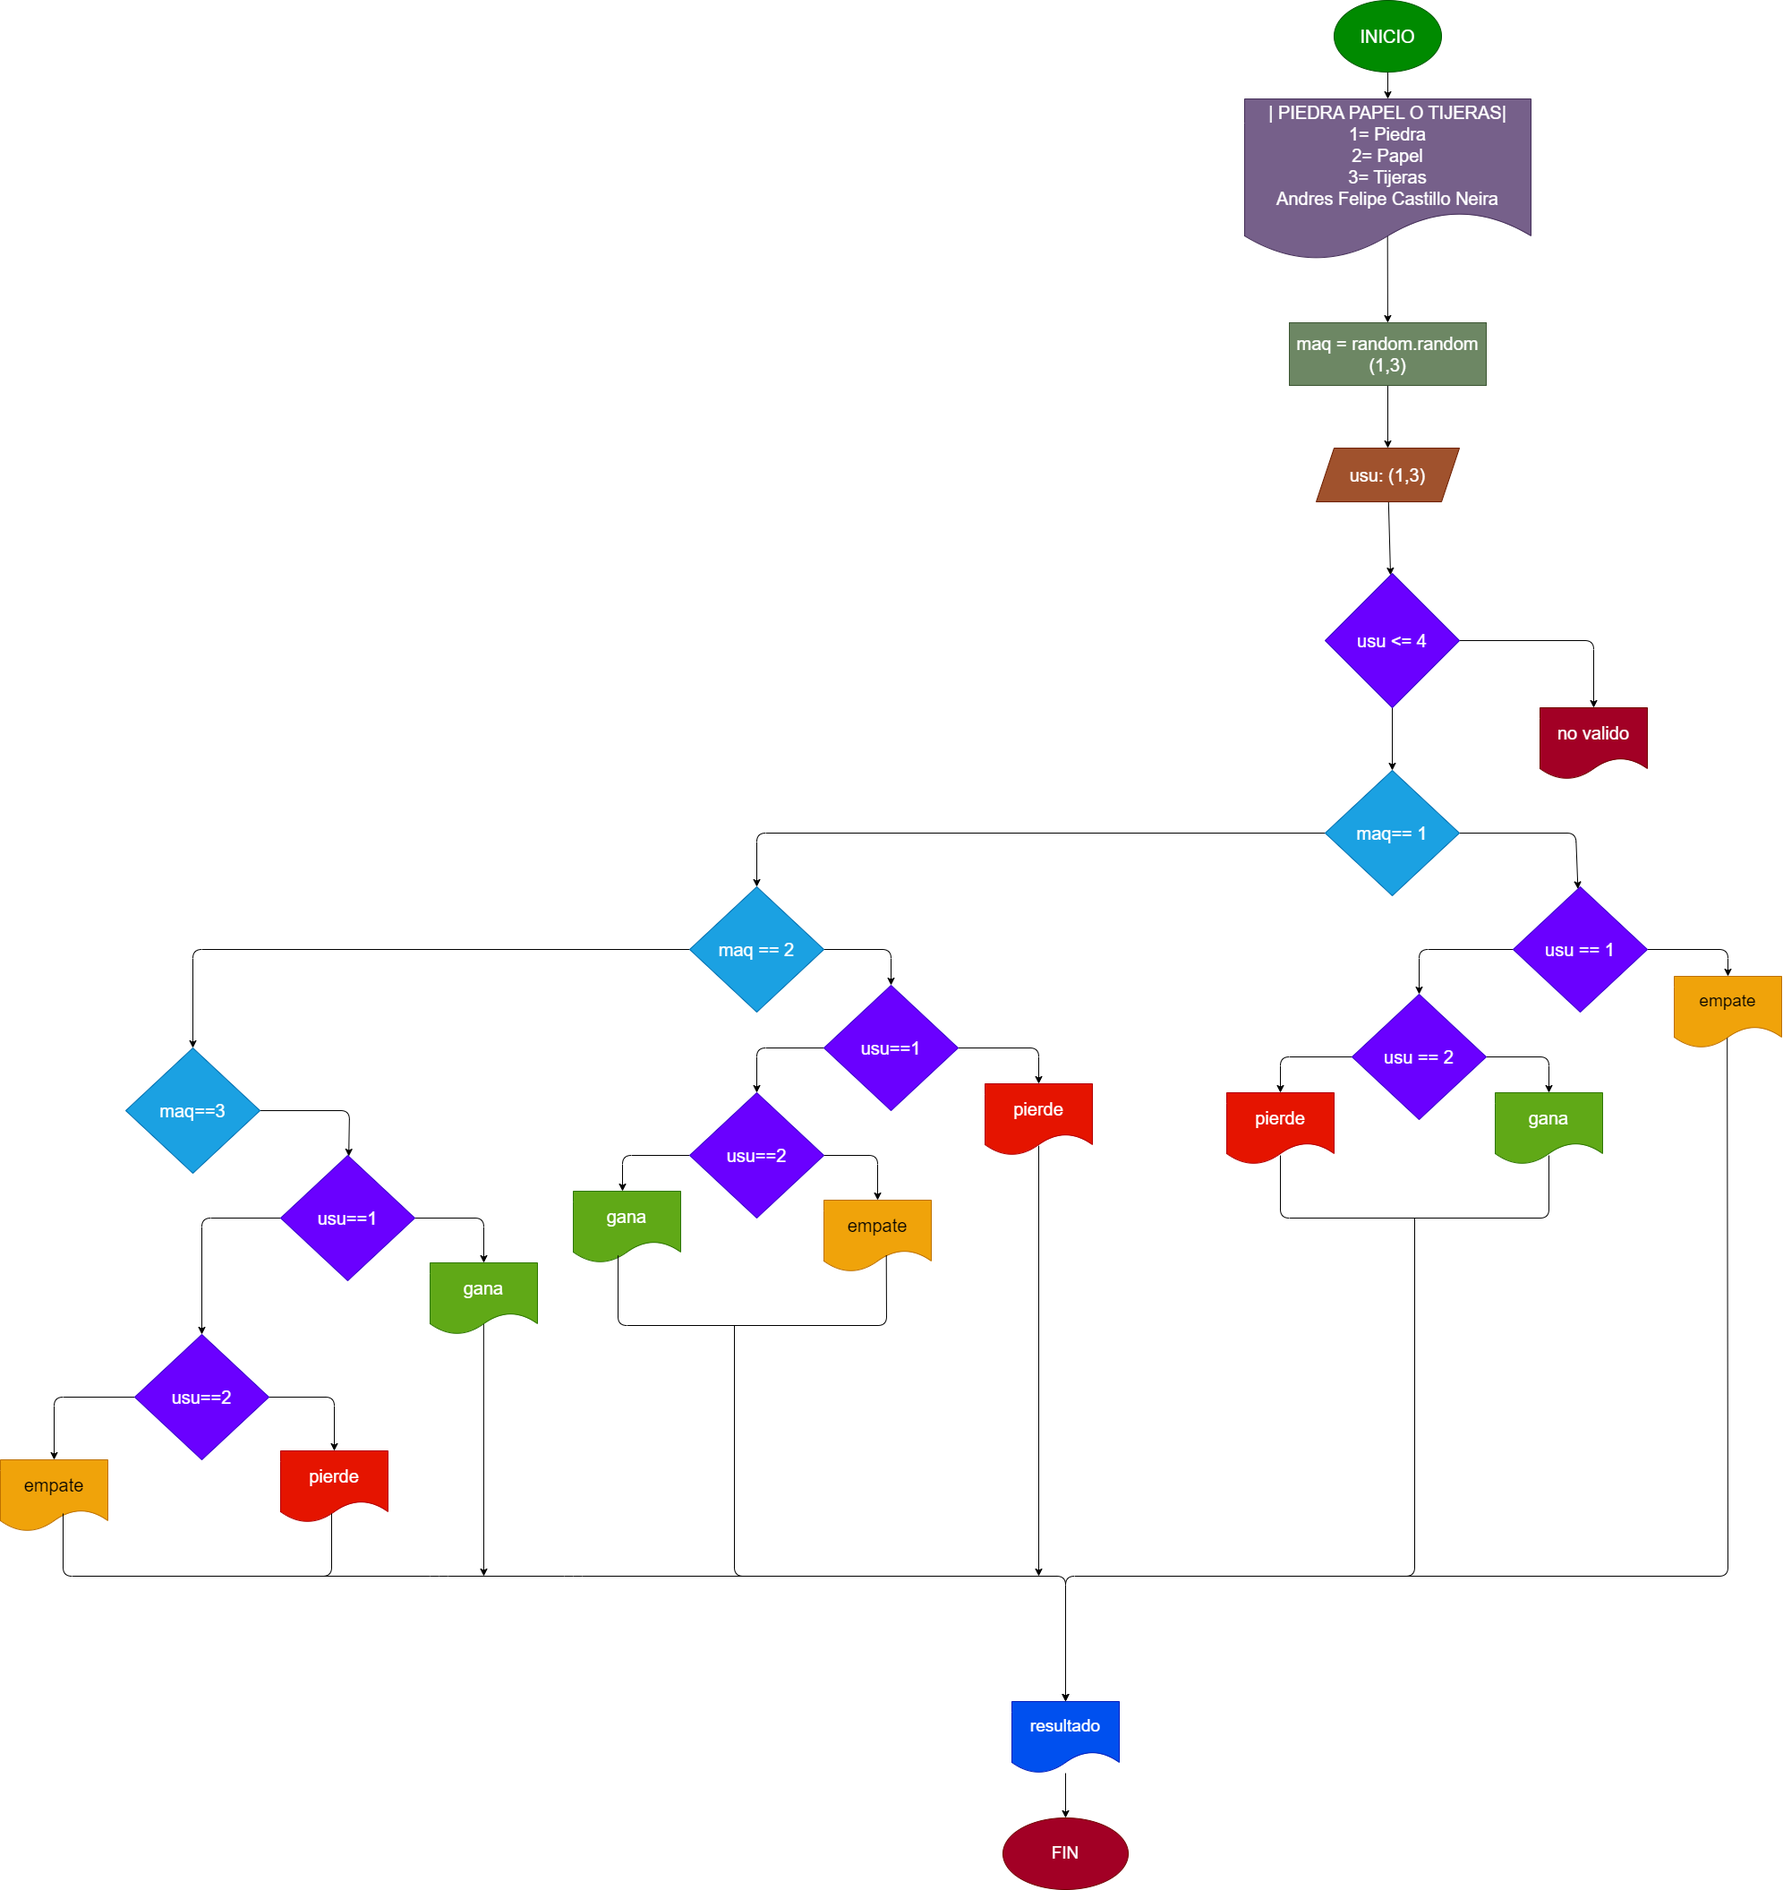
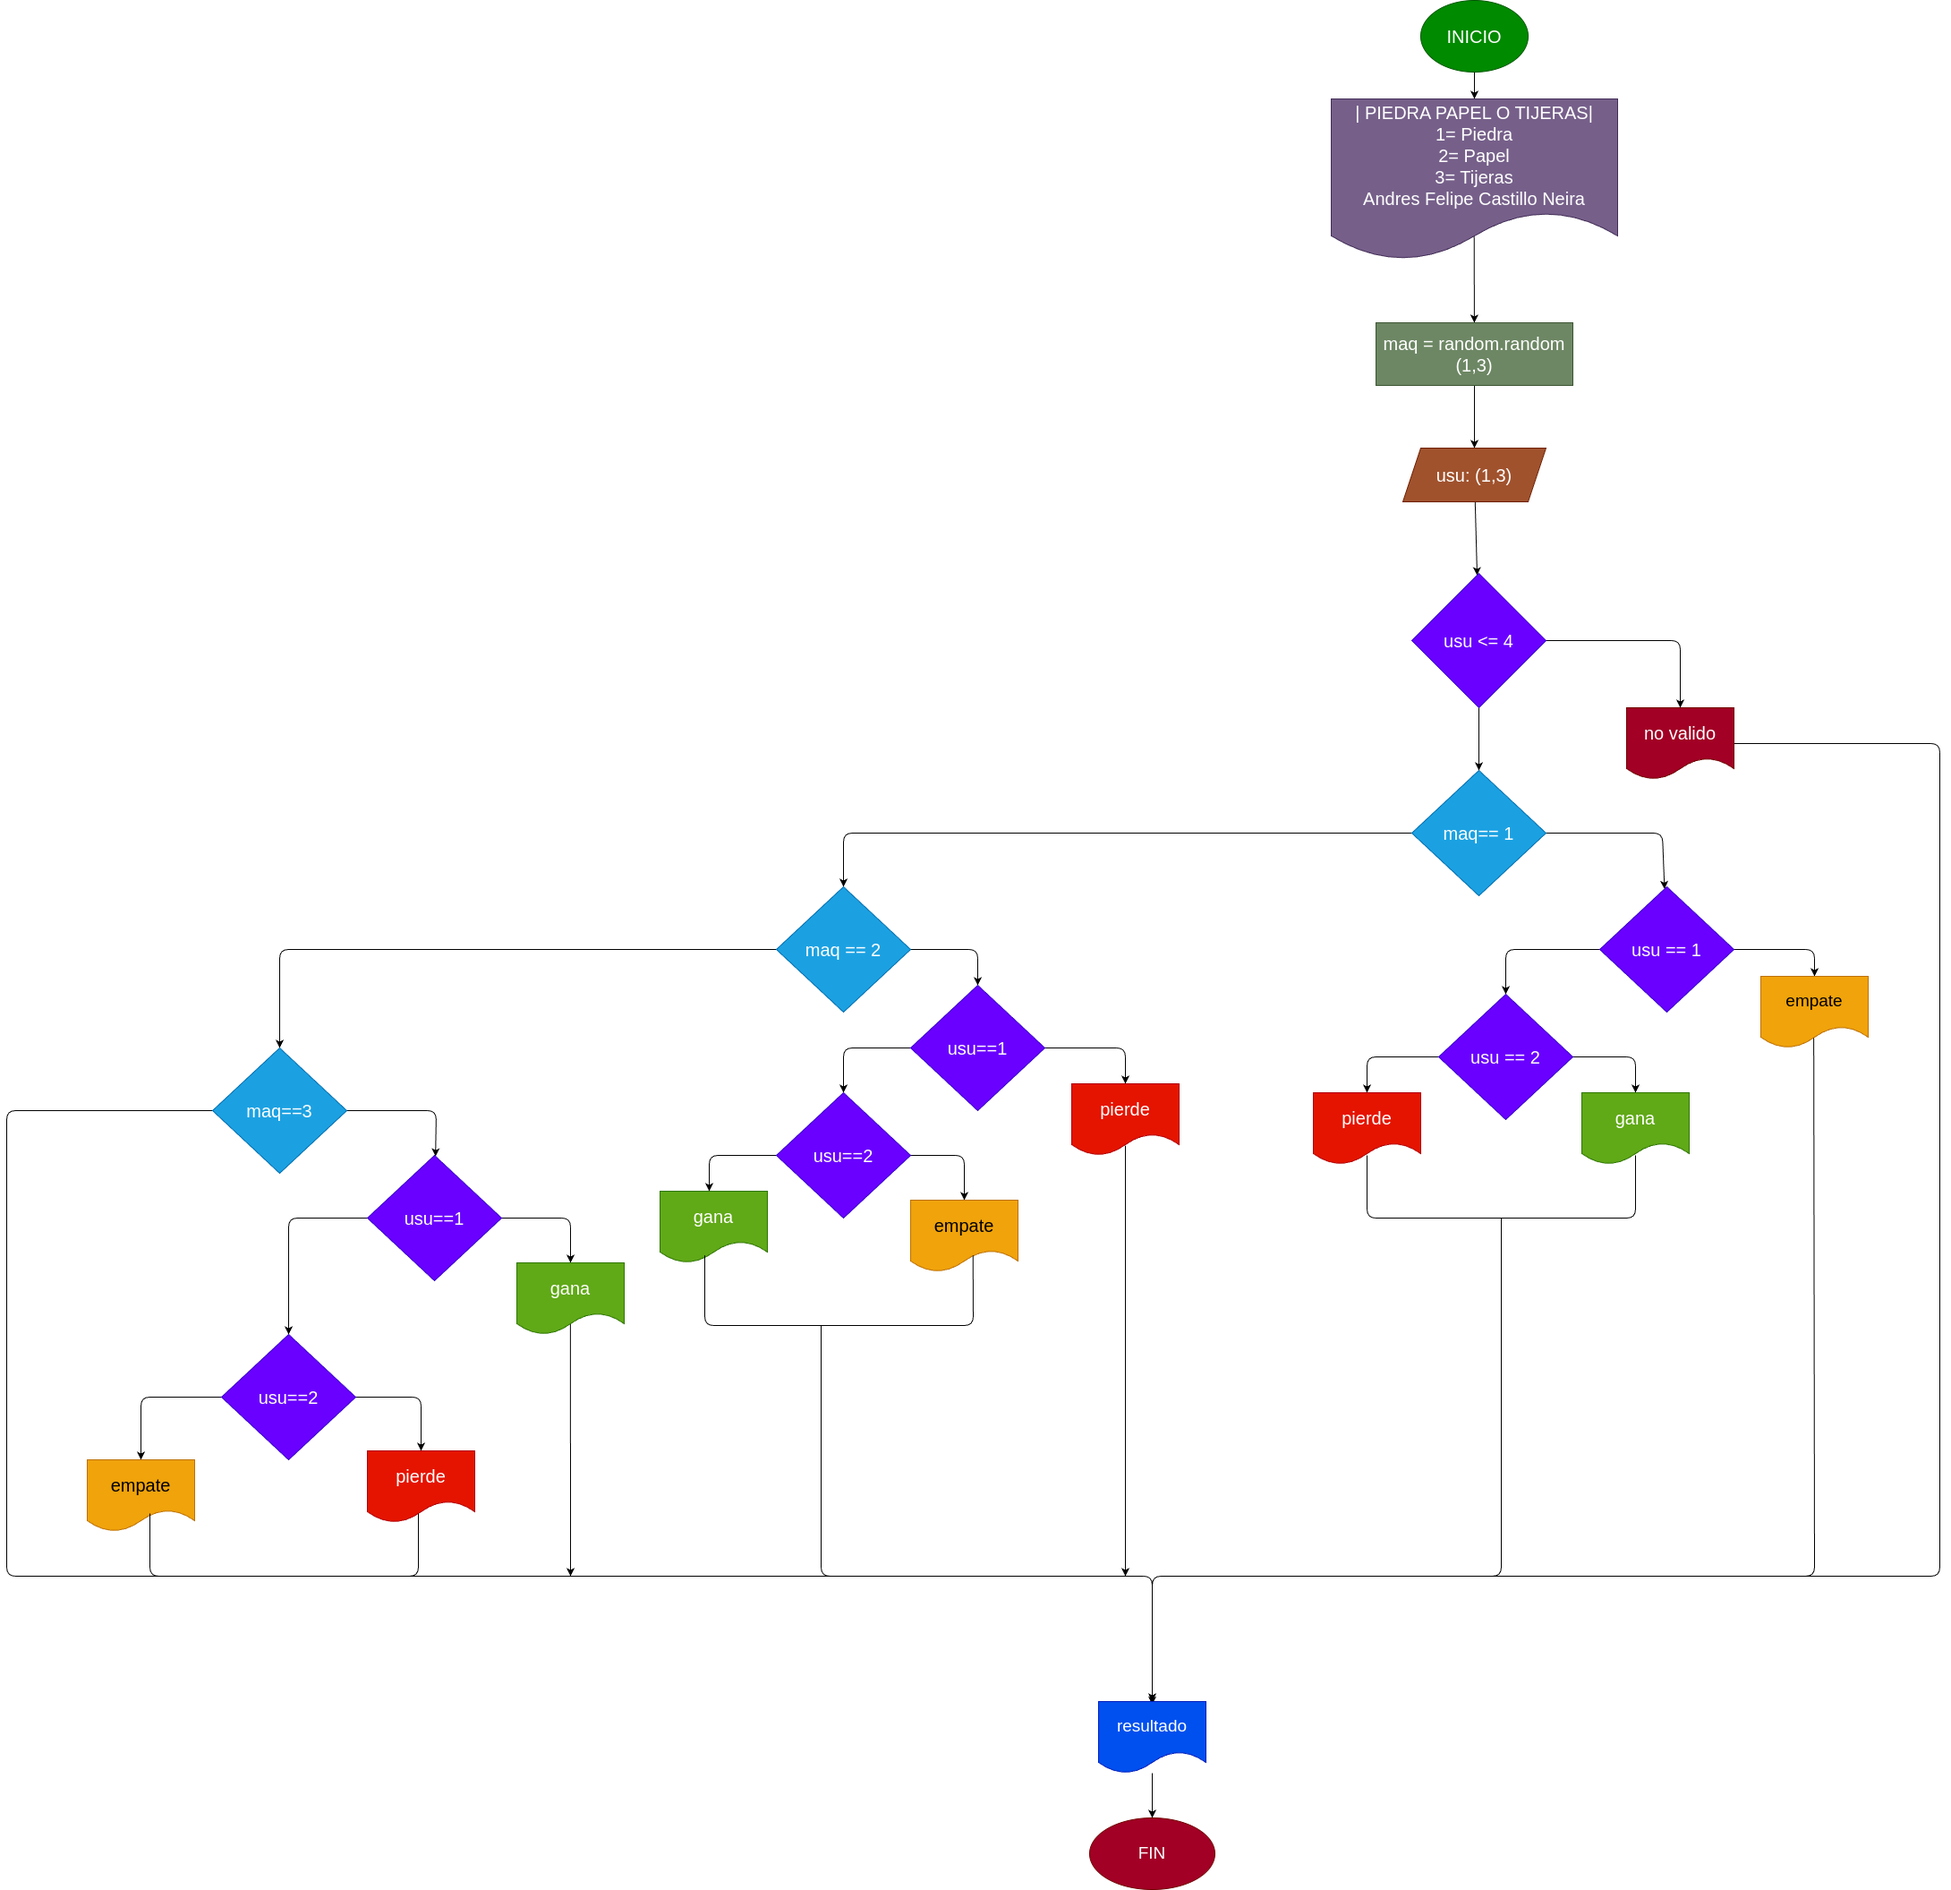
actualizacion

diff --git a/piedra_papel_tijeras.py b/piedra_papel_tijeras.py
@@ -1,48 +1,51 @@
 import random
 
-#elecciones
+# Elecciones
 print("╔══════════════════╗")
 print("1 = Piedra")
 print("2 = Papel")
 print("3 = Tijeras")
 print("╚══════════════════╝")
 
-
 print("╔═══════════════════════════════════╗")
 opcion = input("Elige una opción (1-3): ")
 opcion = int(opcion)
 print("╚═══════════════════════════════════╝")
 
-#Verificarsilaopciónesválida
+# Verificar si la opción es válida
+maquina = random.randint(1, 3)
+
+# Salida
 if opcion < 1 or opcion > 3:
     print("Opción no válida. Por favor elige un número entre 1 y 3.")
 else:
-    # Opciones disponibles
-    opciones = ["piedra", "papel", "tijeras"]
-
-    # Selección aleatoria de la computadora
-    eleccion_computadora = random.choice(opciones)
-
-    # Convertir la elección del jugador en texto
-    if opcion == 1:
-        eleccion_jugador = "piedra"
-    elif opcion == 2:
-        eleccion_jugador = "papel"
+    print("El usuario escogió un valor válido")
+    
+    if maquina == 1:
+        if opcion == 1:
+            r = "Empate!"
+        elif opcion == 2:
+            r = "Ganaste"
+        else:
+            r = "Perdiste"
+    elif maquina == 2:
+        if opcion == 1:
+            r = "Perdiste"
+        elif opcion == 2:
+            r = "Empate!"
+        else:
+            r = "Ganaste"
     else:
-        eleccion_jugador = "tijeras"
+        if opcion == 1:
+            r = "Ganaste"
+        elif opcion == 2:
+            r = "Perdiste"
+        else:
+            r = "Empate!"
 
-    # Mostrar las elecciones
+    # Salida
     print("╔═══════════════════════════════════╗")
-    print(f"Tu elección: {eleccion_jugador}")
-    print(f"La computadora eligió: {eleccion_computadora}")
+    print("═══════ " + r + " ═══════")
+    print(f"Tu elección: {opcion}")
+    print(f"La computadora eligió: {maquina}")
     print("╚═══════════════════════════════════╝")
-
-    # Determinar el ganador
-    if eleccion_jugador == eleccion_computadora:
-        print("¡Es un empate!")
-    elif (eleccion_jugador == "piedra" and eleccion_computadora == "tijeras") or \
-         (eleccion_jugador == "papel" and eleccion_computadora == "piedra") or \
-         (eleccion_jugador == "tijeras" and eleccion_computadora == "papel"):
-        print("¡Ganaste!")
-    else:
-        print("¡Perdiste!")
